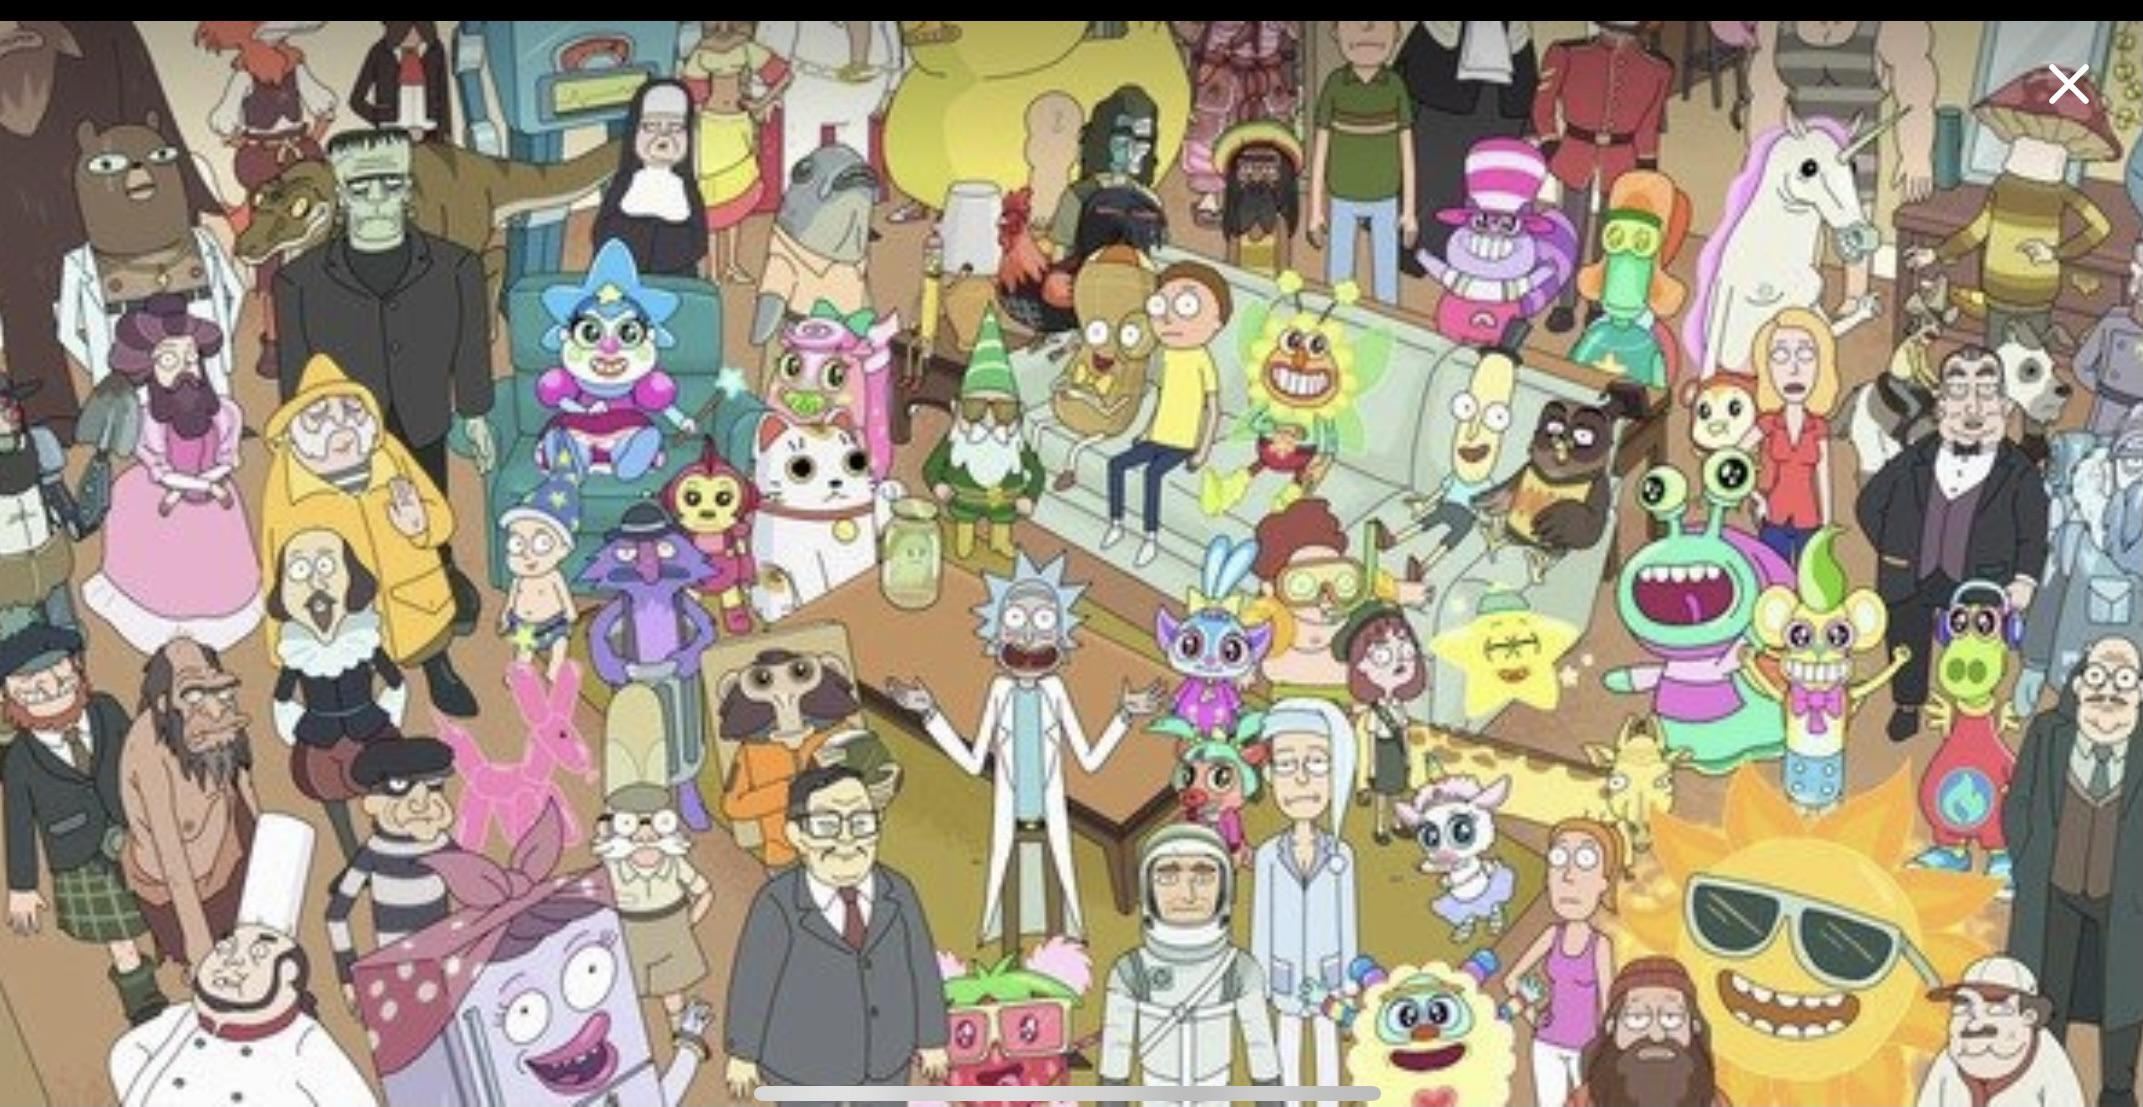
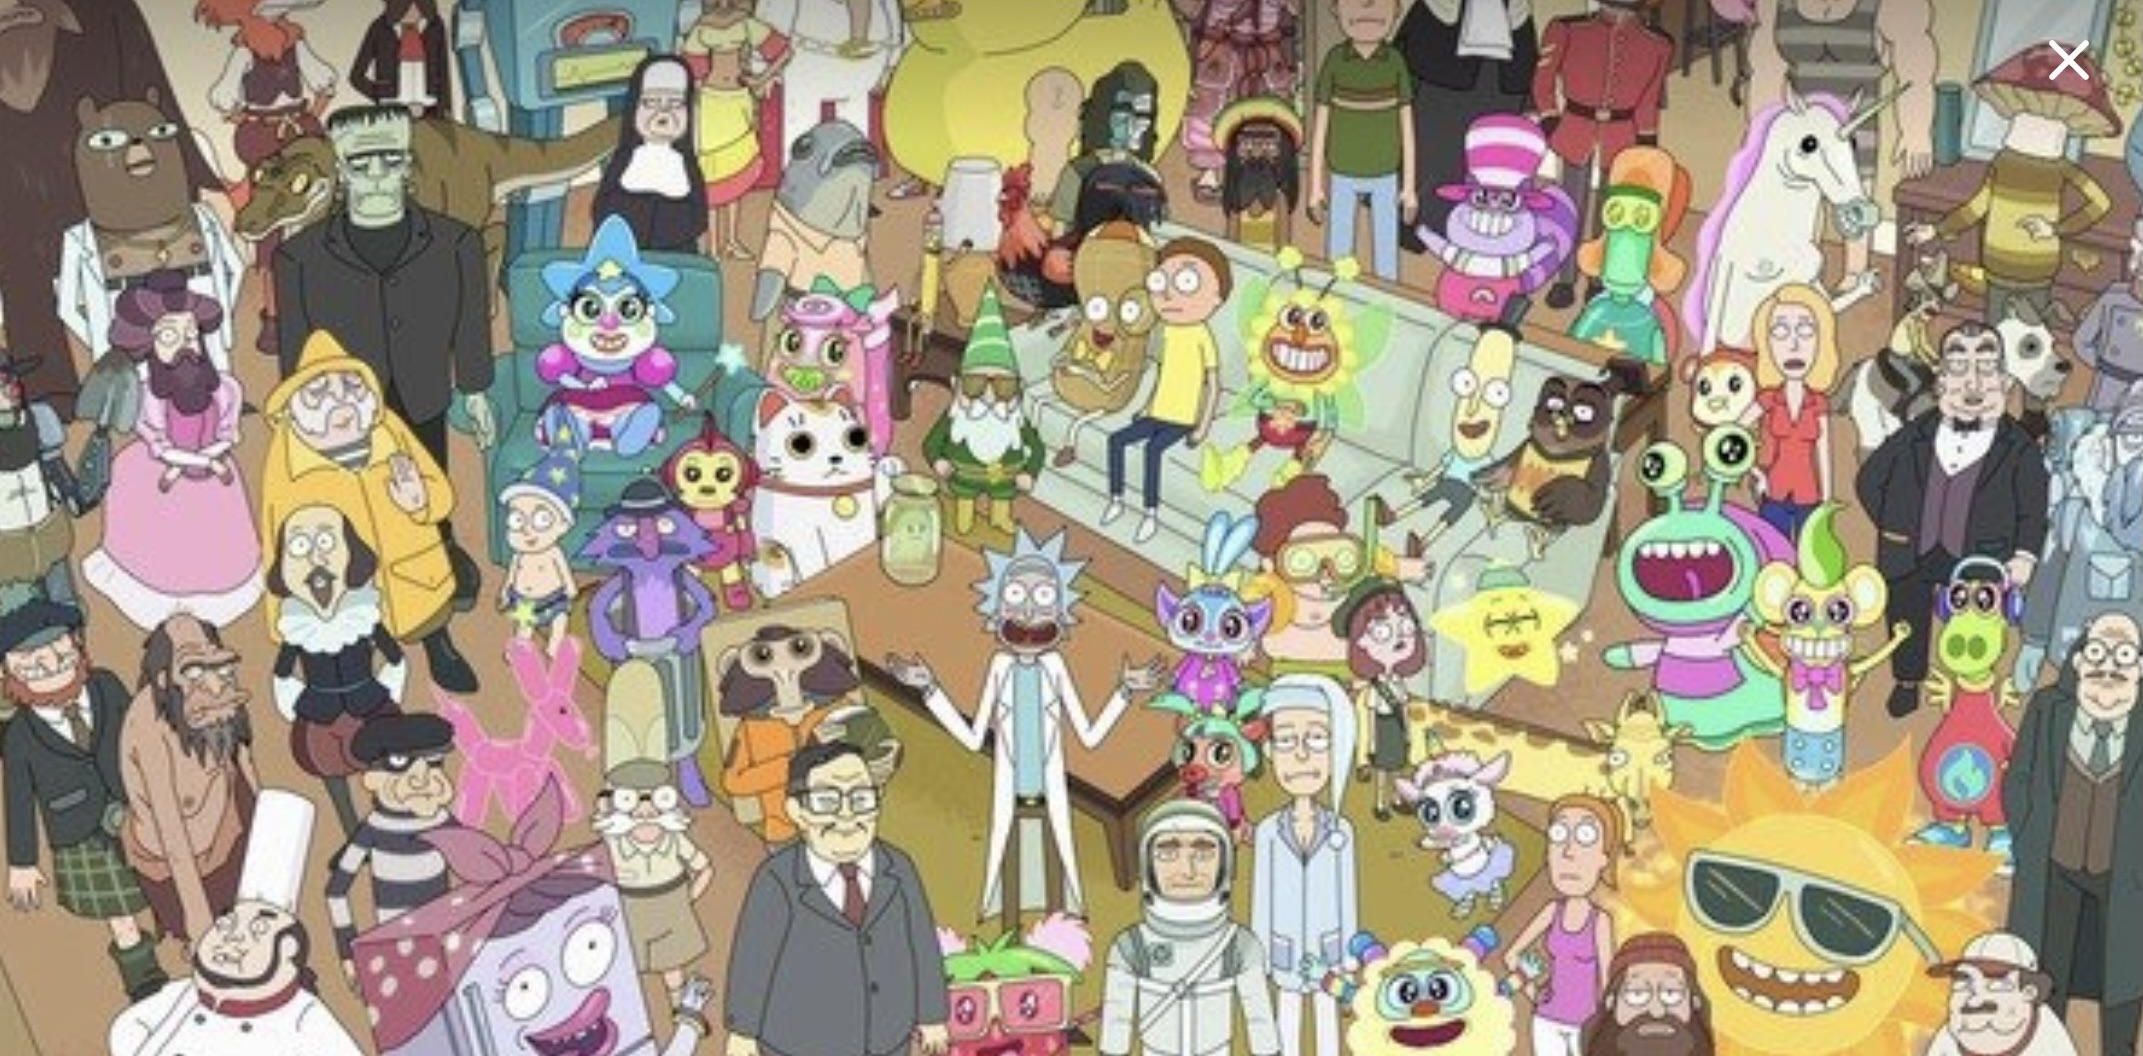
Update preview image

diff --git a/index.html b/index.html
@@ -16,7 +16,7 @@
     <meta property="og:image" content="/TechNestRickAndMorty/Assets/characters.jpg">
     <meta property="og:image:type" content="image/jpg">
     <meta property="og:image:width" content="2143">
-    <meta property="og:image:height" content="1107">
+    <meta property="og:image:height" content="1056">
     <meta property="og:type" content="website">
     <meta property="og:url" content="https://bmcurutan.github.io/TechNestRickAndMorty">
 </head>
